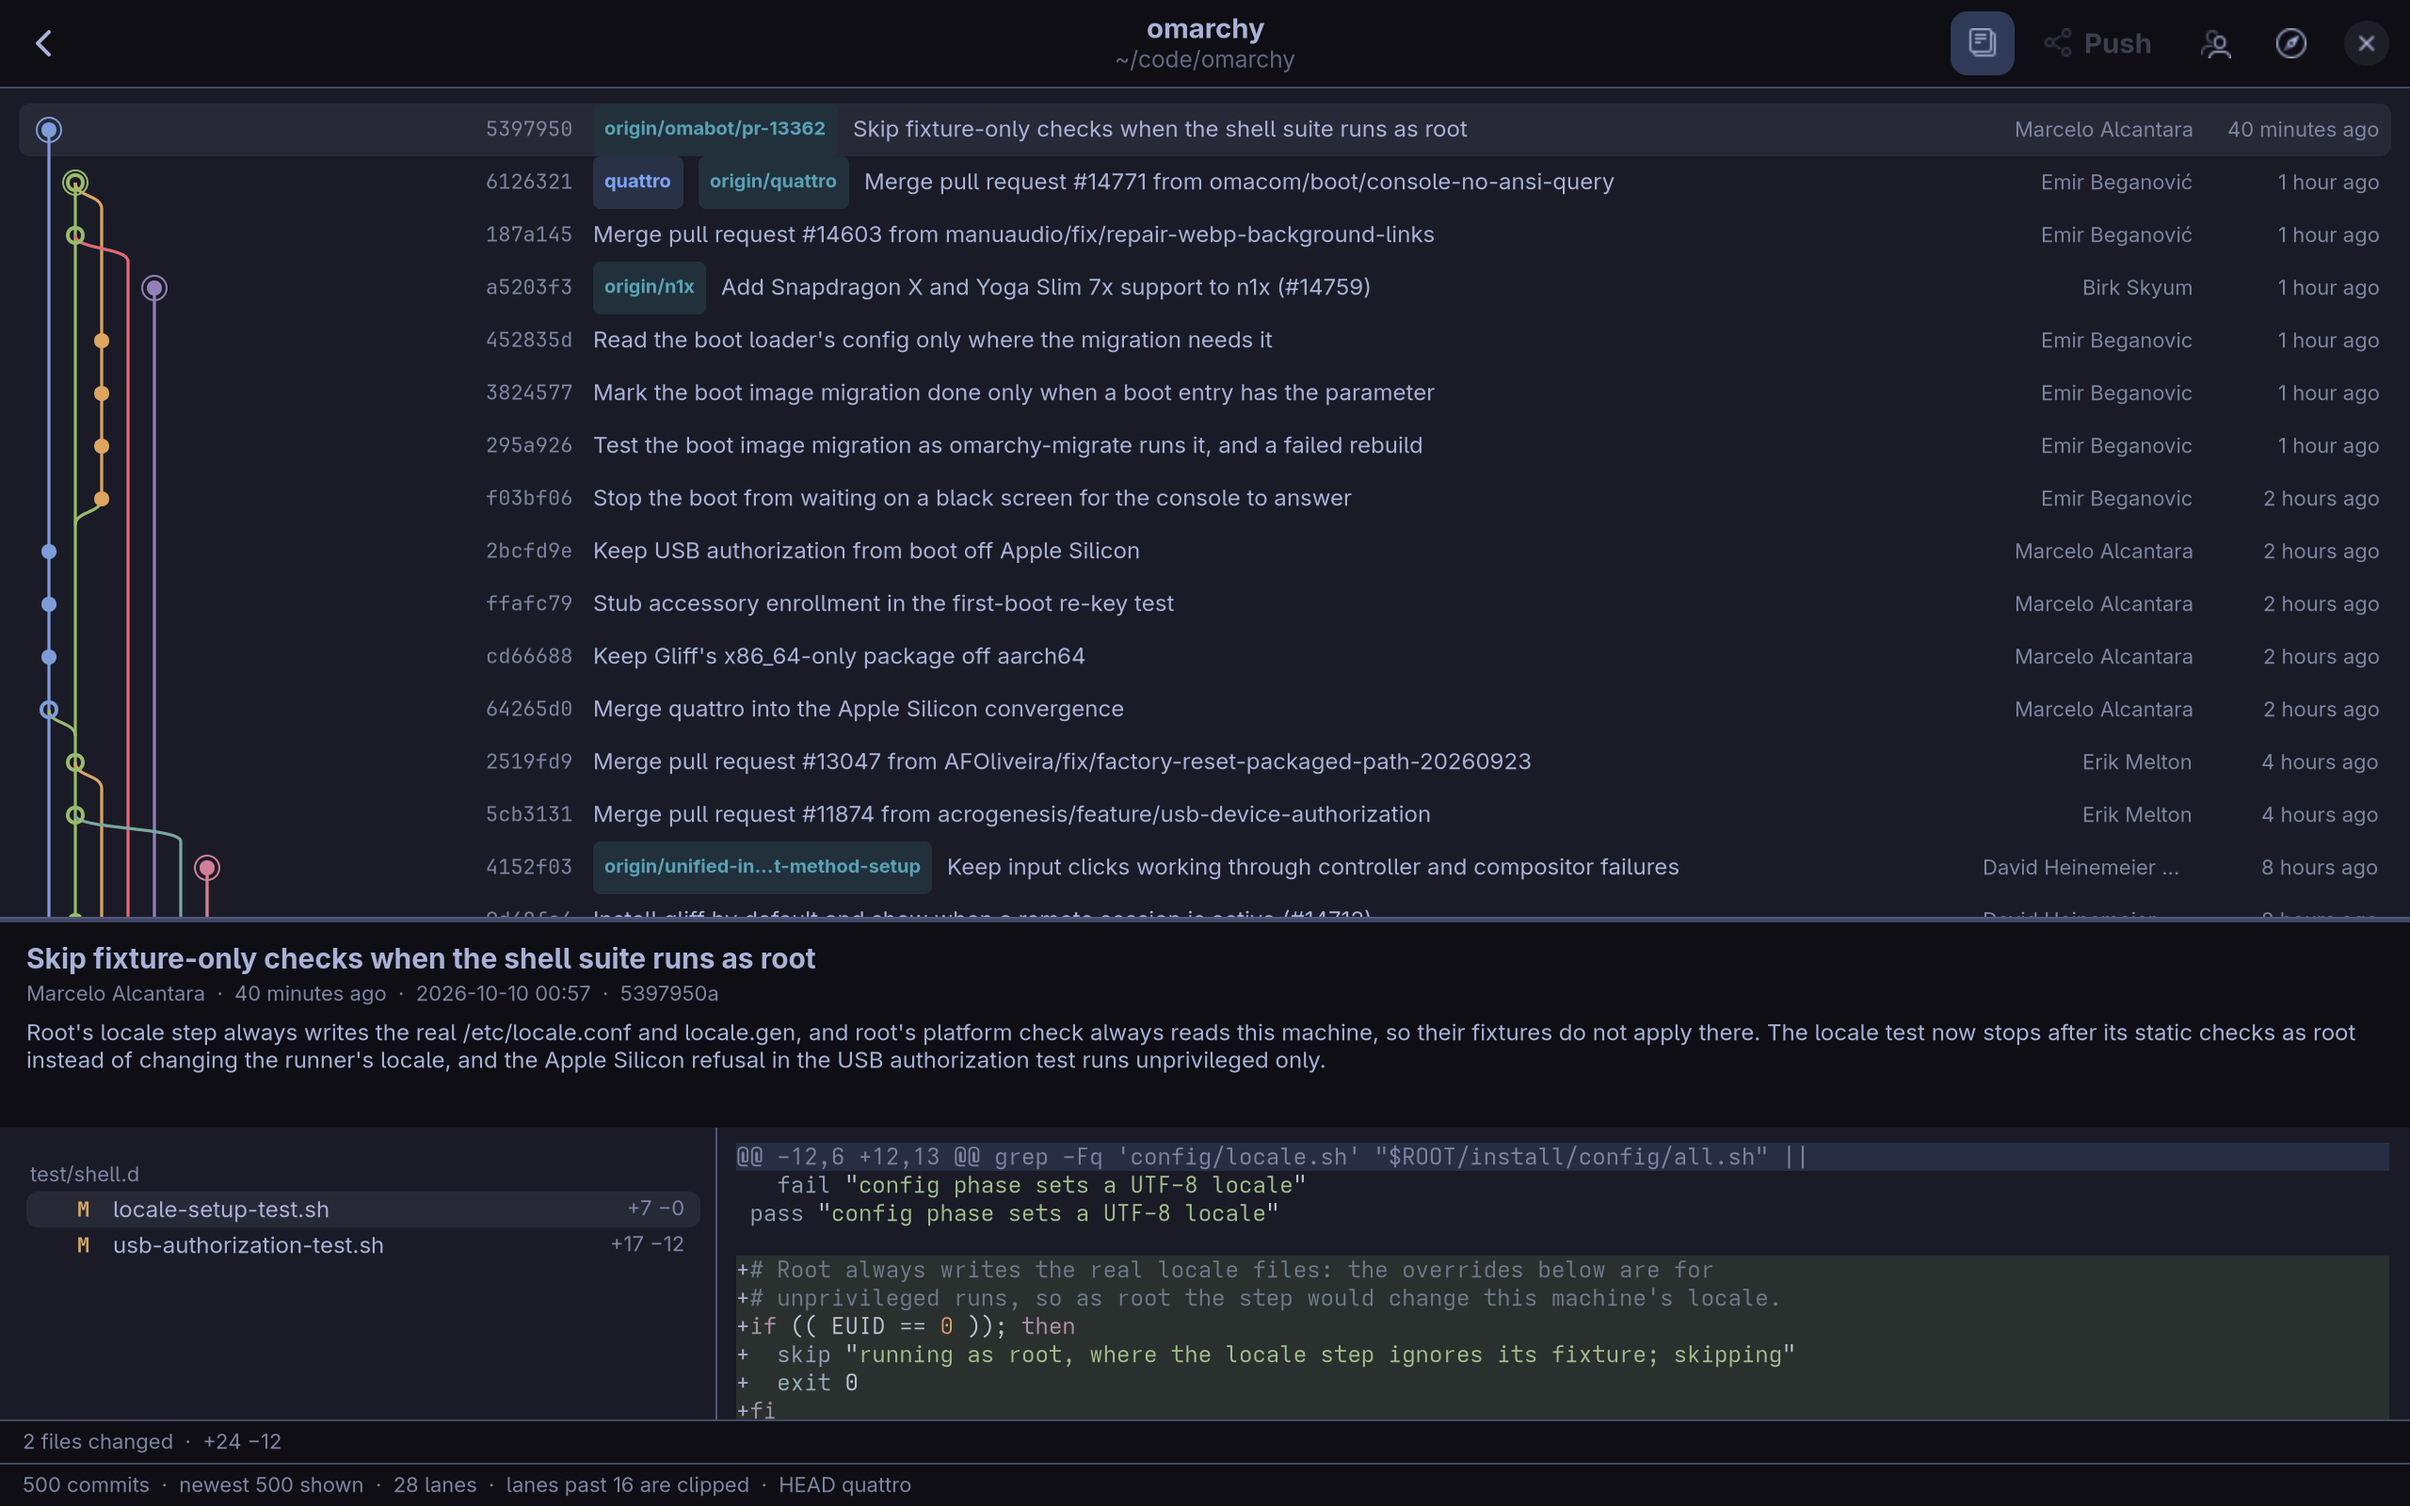
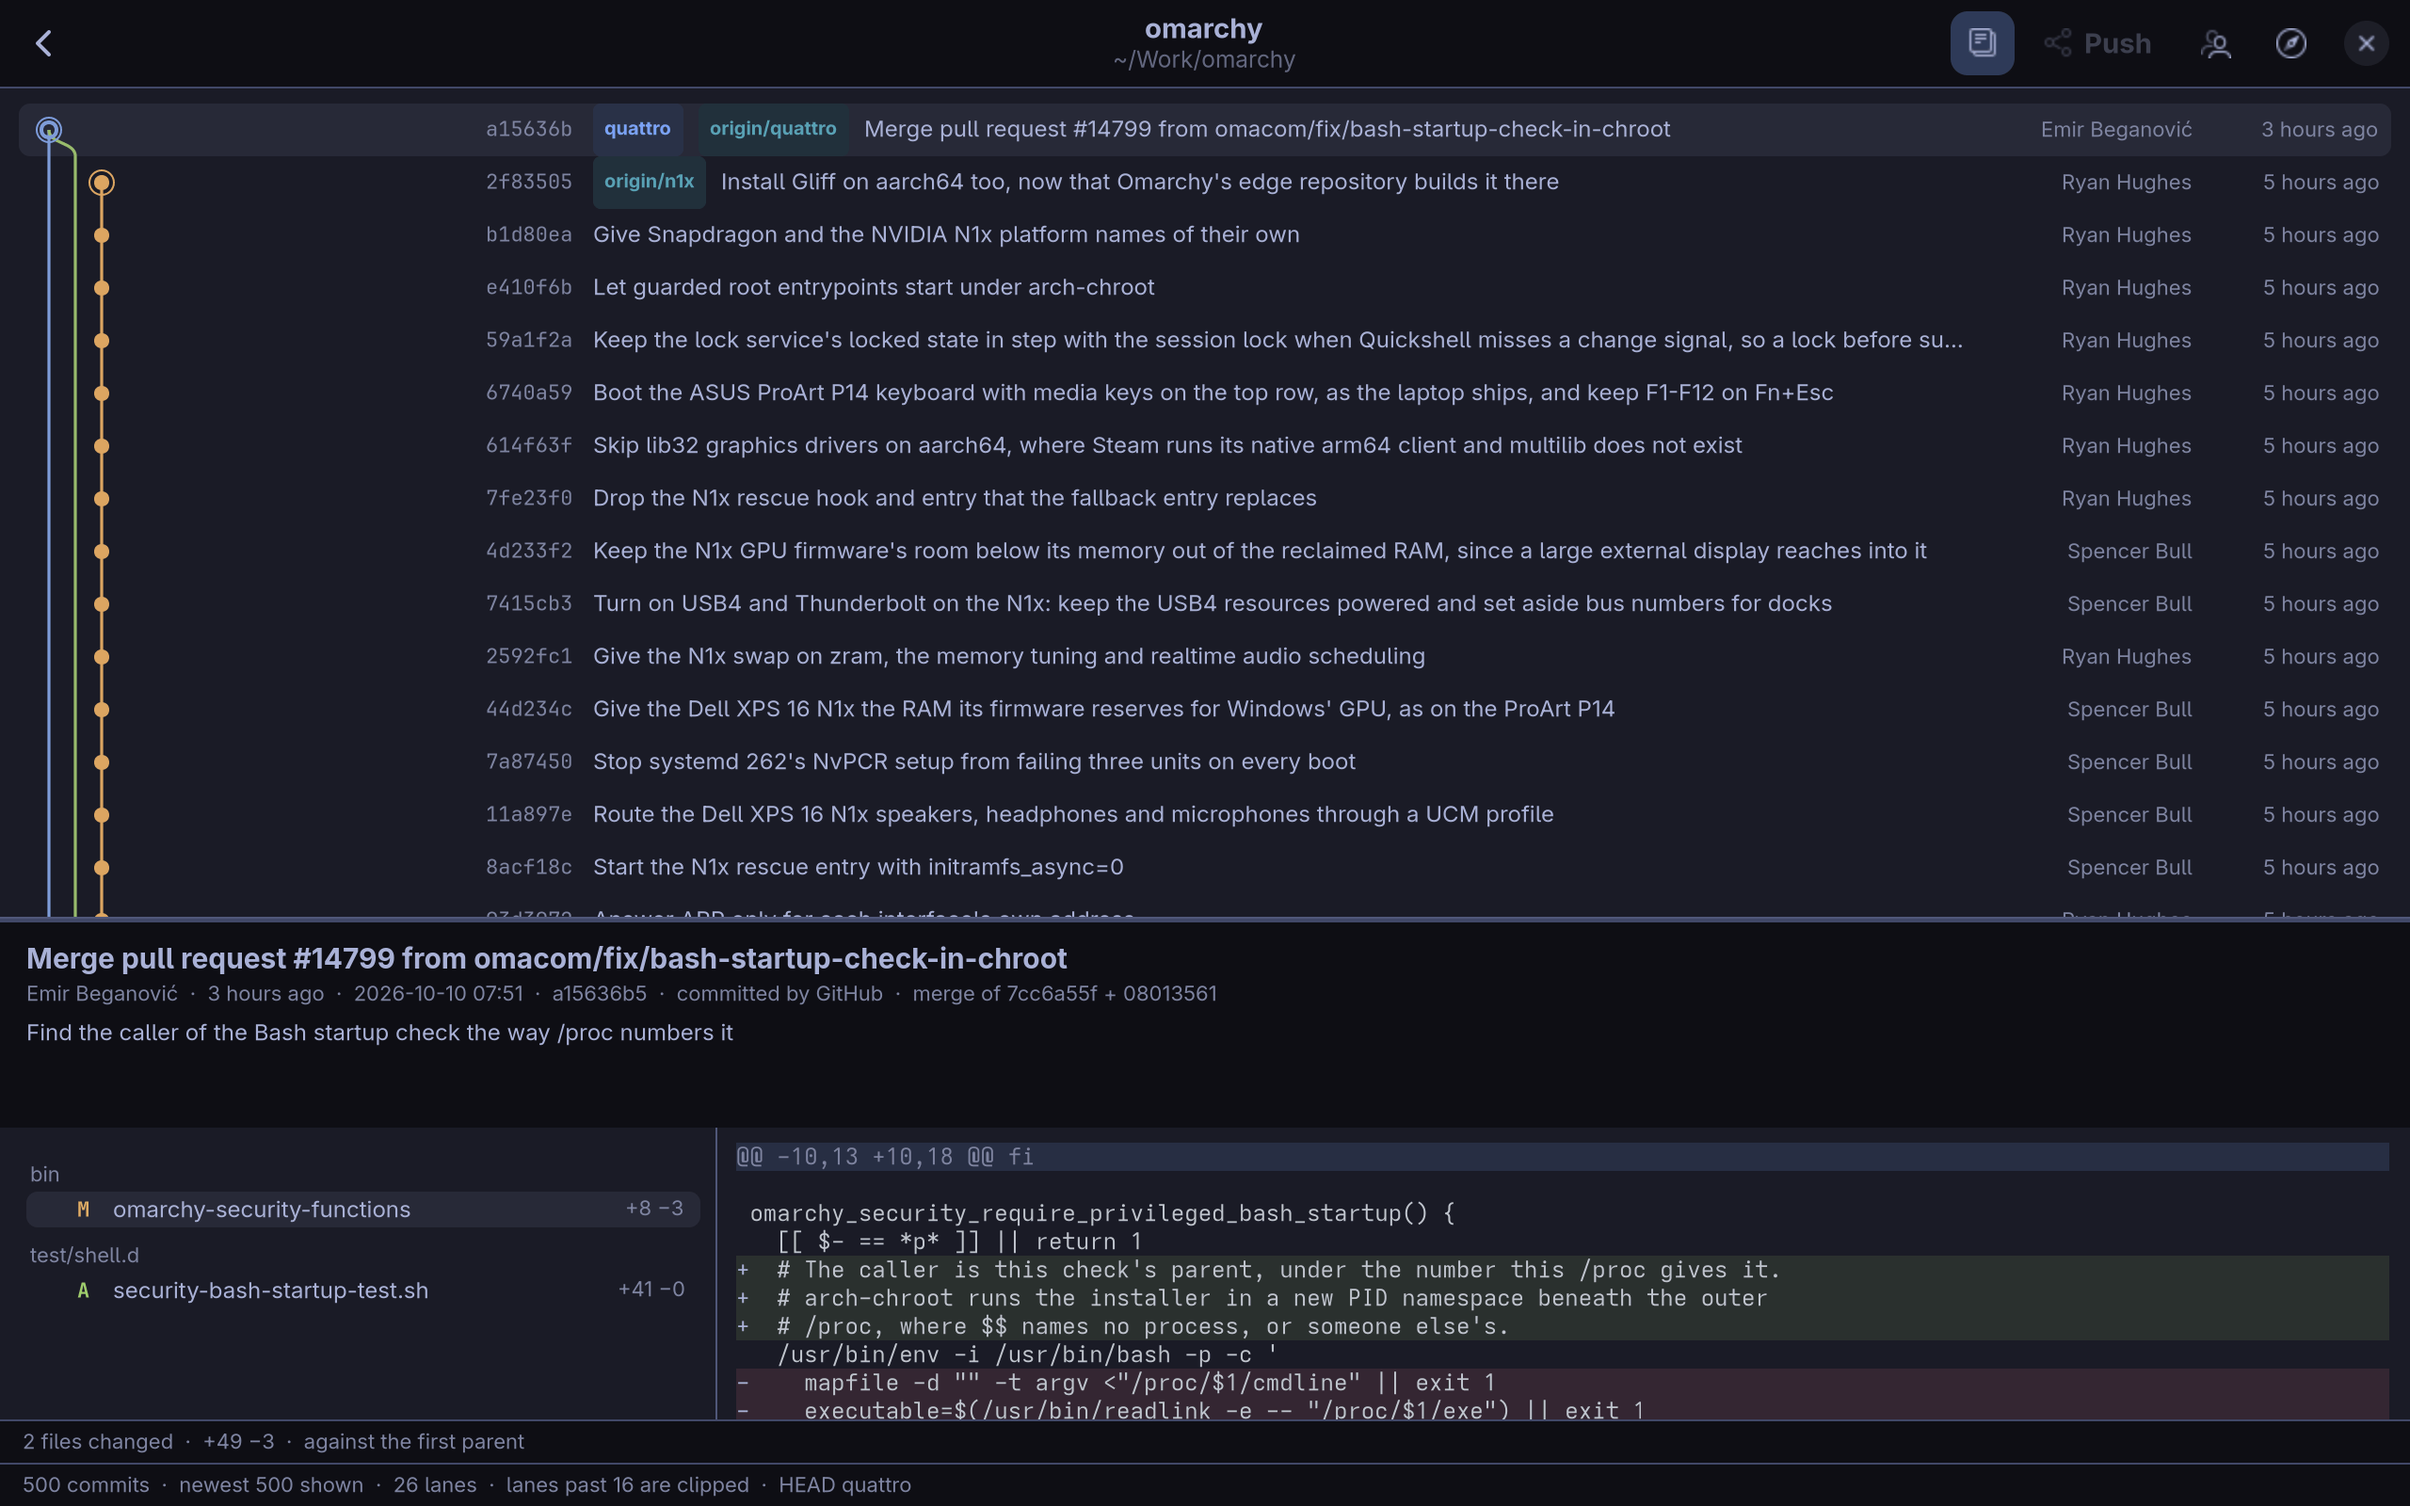
Retake the pictures with the fleet under ~/Work
Every card in the README's pictures gave its folder as ~/code/, the
default the commit before this one replaced, and the commit box in one of
them was libadwaita's blue, which the commit before that one replaced.

The picture scripts put the fleet under ~/Work in their scratch home, and
all eight pictures are taken again from fresh clones: the cards read
~/Work/, the commit button is Tokyo Night's accent, and this repository's
card shows the two commits that were only here when they were taken. The
README's example of what is ahead follows the picture.

Checked: each of the eight was looked at; nothing in them names a folder,
tag or account of the machine they were taken on but this repository and
its last author.

diff --git a/README.md b/README.md
@@ -47,7 +47,7 @@ says what it is.
 | Name | The repository |
 | Where | The folder it lies in, and the remote it belongs to |
 | Branch | The branch, and on the right what is uncommitted: `+1 ~3 ?4` is one staged, three modified, four untracked |
-| Sync | `↑ 3 ahead` is what exists only here. `↓ 28 behind` is what is waiting, and **held back** is added when the refresh would have brought it in and something is in the way |
+| Sync | `↑ 2 ahead` is what exists only here. `↓ 28 behind` is what is waiting, and **held back** is added when the refresh would have brought it in and something is in the way |
 | Commit | The last commit: how old, what it says, and who wrote it when that was not you |
 | Lately | Commits a day over the last four weeks, yours solid and other people's fainter |
 | Tags | Your own labels, each with a dot in the tag's colour: one of eight, chosen by its name |
@@ -55,9 +55,8 @@ says what it is.
 Apart from the dot on a tag, colour is kept for what needs you. The left edge
 is yellow for uncommitted work, the accent colour for commits that exist
 nowhere else, and red for trouble. The card `Enter` would open from the
-filter, the first one in the picture at the top, shows the two commits before
-the last in place of the four weeks. [Reading a card](docs/cards.md) has the
-rest.
+filter, the first one here, shows the two commits before the last in place of
+the four weeks. [Reading a card](docs/cards.md) has the rest.
 
 ### Type, then Enter
 

diff --git a/docs/development.md b/docs/development.md
@@ -113,7 +113,7 @@ OMAREPOS_SHOTS_DIR=/some/scratch/dir scripts/shots/shoot.sh
 ```
 
 `fleet.sh` puts sixteen repositories in a home directory of its own, as
-`~/code` there: a copy of this one, and clones of the fifteen public
+`~/Work` there: a copy of this one, and clones of the fifteen public
 repositories that had the most stars on GitHub under a search for "omarchy"
 when the pictures were last taken. Those are cloned without signing in, and
 git is given a configuration that reaches no credential helper. So that there
